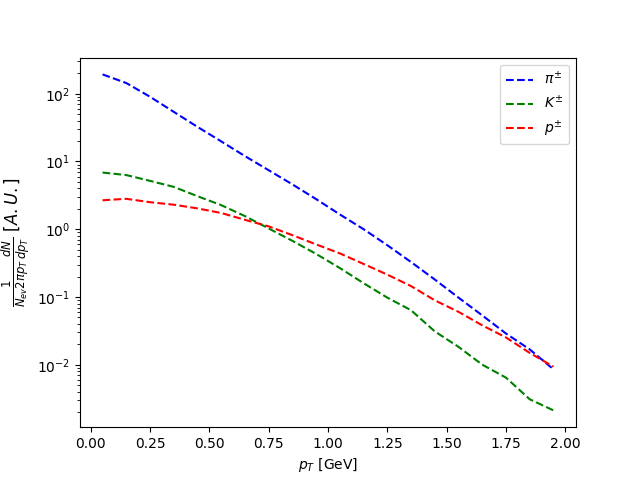
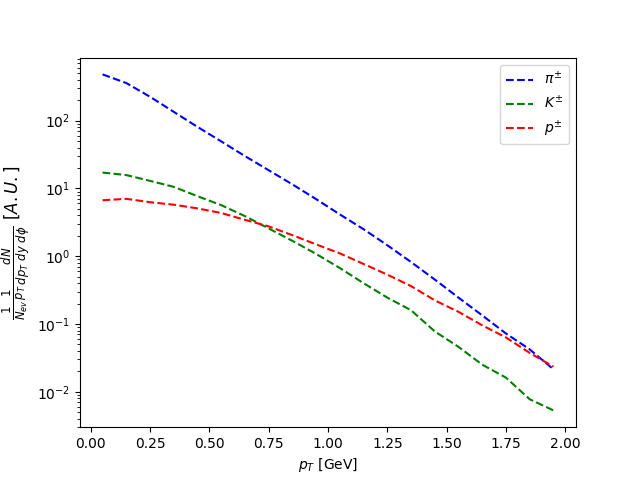
Add files via upload

diff --git a/main.cpp b/main.cpp
@@ -51,6 +51,9 @@ int main() {
     double v2_spectra_pi[n_bins];
     double v2_spectra_K[n_bins];
     double v2_spectra_p[n_bins];
+    double v2_eve_pi[n_bins];
+    double v2_eve_K[n_bins];
+    double v2_eve_p[n_bins];
 
     for(int i=0; i<n_bins; i++)
     {
@@ -61,6 +64,9 @@ int main() {
         v2_spectra_pi[i]=0;
         v2_spectra_K[i]=0;
         v2_spectra_p[i]=0;
+        v2_eve_pi[i]=0;
+        v2_eve_K[i]=0;
+        v2_eve_p[i]=0;
     }
 
     int N_eve = 0;
@@ -163,12 +169,15 @@ int main() {
 
             if (n_pi != 0) {
                 v2_tmp_pi /= n_pi;
+                v2_eve_pi[b]++;
             }
             if (n_K != 0) {
                 v2_tmp_K /= n_K;
+                v2_eve_K[b]++;
             }
             if (n_p != 0) {
                 v2_tmp_p /= n_p;
+                v2_eve_p[b]++;
             }
 
             v2_spectra_pi[b]+=v2_tmp_pi;
@@ -184,13 +193,13 @@ int main() {
 
     for (int i = 0; i < n_bins; i++) //normalization and scaling
     {
-        y_spectra[i]/= N_eve * ((y_max-y_min)/n_bins);
-        pt_spectra_pi[i] /= N_eve * 2 * M_PI * ((i*((pt_max-pt_min)/n_bins))+(((pt_max-pt_min)/n_bins)/2)) * ((pt_max-pt_min)/n_bins); //1/N_eve*2pi*pt
-        pt_spectra_K[i] /= N_eve * 2 * M_PI * ((i*((pt_max-pt_min)/n_bins))+(((pt_max-pt_min)/n_bins)/2)) * ((pt_max-pt_min)/n_bins); //1/N_eve*2pi*pt
-        pt_spectra_p[i] /= N_eve * 2 * M_PI * ((i*((pt_max-pt_min)/n_bins))+(((pt_max-pt_min)/n_bins)/2)) * ((pt_max-pt_min)/n_bins); //1/N_eve*2pi*pt
-        v2_spectra_pi[i] /= N_eve;
-        v2_spectra_K[i] /= N_eve;
-        v2_spectra_p[i] /= N_eve;
+        y_spectra[i]/= N_eve * ((y_max-y_min)/n_bins) * 2 * M_PI;
+        pt_spectra_pi[i] /= N_eve * 2 * M_PI * ((i*((pt_max-pt_min)/n_bins))+(((pt_max-pt_min)/n_bins)/2)) * ((pt_max-pt_min)/n_bins) * (0.4); //1/N_eve*2pi*pt*y
+        pt_spectra_K[i] /= N_eve * 2 * M_PI * ((i*((pt_max-pt_min)/n_bins))+(((pt_max-pt_min)/n_bins)/2)) * ((pt_max-pt_min)/n_bins) * (0.4); //1/N_eve*2pi*pt*y
+        pt_spectra_p[i] /= N_eve * 2 * M_PI * ((i*((pt_max-pt_min)/n_bins))+(((pt_max-pt_min)/n_bins)/2)) * ((pt_max-pt_min)/n_bins) * (0.4); //1/N_eve*2pi*pt*y
+        v2_spectra_pi[i] /= v2_eve_pi[i];
+        v2_spectra_K[i] /= v2_eve_K[i];
+        v2_spectra_p[i] /= v2_eve_p[i];
     }
 
 

diff --git a/main.py b/main.py
@@ -25,22 +25,22 @@ for k in range(0, 20):
 plt.plot(pt_X, pt_pi, 'b--', label=r'$\pi^{\pm}$')
 plt.plot(pt_X, pt_K, 'g--', label=r'$K^{\pm}$')
 plt.plot(pt_X, pt_p, 'r--', label=r'$p^{\pm}$')
-plt.legend(loc="upper right")
+plt.legend(loc='best')
 plt.xlabel(r'$p_{T}$ [GeV]')
-plt.ylabel(r'$\frac{1}{N_{ev}2\pi p_{T}}\frac{dN}{dp_{T}}\ [A.U.]$', fontsize=12)
+plt.ylabel(r'$\frac{1}{N_{ev}}\frac{1}{p_{T}}\frac{dN}{dp_{T}\ dy\ d\phi}\ [A.U.]$', fontsize=12)
 plt.yscale("log")
 plt.show()
 
 plt.plot(y_X,  y, 'r--', label=r'$N_{ch}$')
 plt.xlabel("y")
-plt.legend(loc="upper right")
-plt.ylabel(r'$\frac{1}{N_{ev}2\pi}\frac{dN}{dy}\ [A.U.]$', fontsize=12)
+plt.legend(loc='best')
+plt.ylabel(r'$\frac{1}{N_{ev}}\frac{dN}{dy\ d\phi}\ [A.U.]$', fontsize=12)
 plt.show()
 
 plt.plot(pt_X, v2_pi,  'b--', label=r'$\pi^{\pm}$')
 plt.plot(pt_X, v2_K,  'g--', label=r'$K^{\pm}$')
 plt.plot(pt_X, v2_p,  'r--', label=r'$p^{\pm}$')
-plt.legend(loc="upper right")
+plt.legend(loc='best')
 plt.xlabel(r'$p_{T}$ [GeV]')
 plt.ylabel(r'$v_{2}$')
 plt.show()
